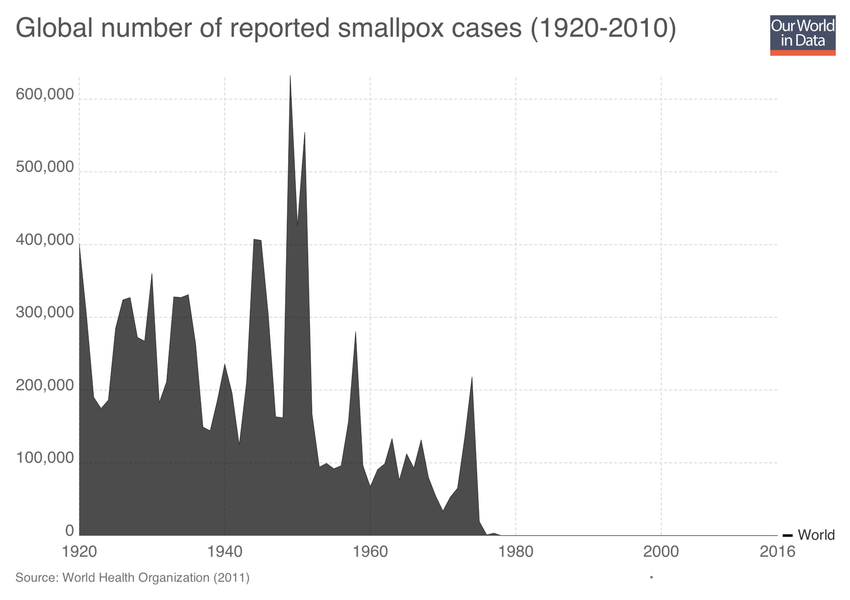
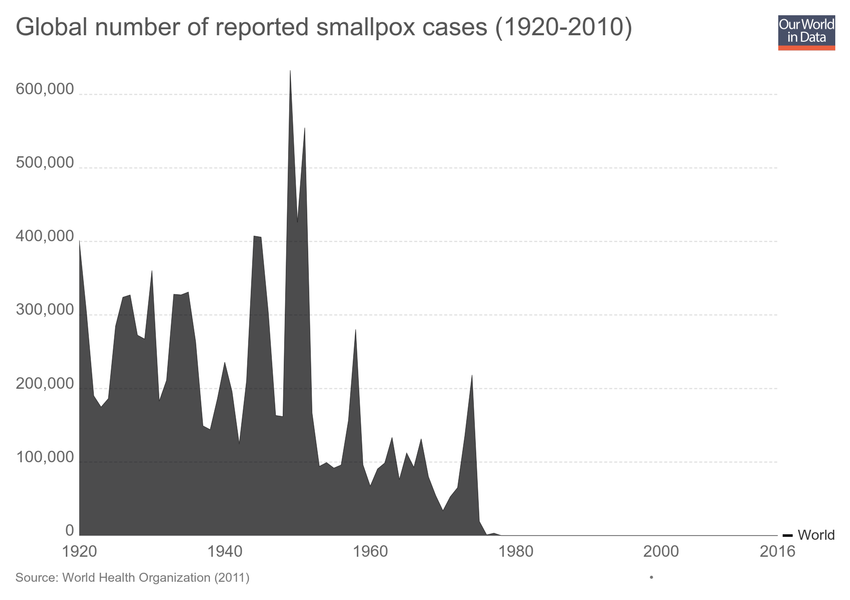
Updating chart global-smallpox-cases

diff --git a/grapher/global-smallpox-cases.html b/grapher/global-smallpox-cases.html
@@ -1,4 +1,4 @@
-<!doctype html><html><head><meta name="viewport" content="width=device-width, initial-scale=1" /><title>Global number of reported smallpox cases (1920-2010) - Our World in Data</title><meta name="description" content="An interactive visualization from Our World in Data." /><link rel="canonical" href="https://ourworldindata.org/grapher/global-smallpox-cases" /><meta property="fb:app_id" content="1149943818390250" /><meta property="og:url" content="https://ourworldindata.org/grapher/global-smallpox-cases" /><meta property="og:title" content="Global number of reported smallpox cases (1920-2010)" /><meta property="og:description" content="An interactive visualization from Our World in Data." /><meta property="og:image" content="https://ourworldindata.org/grapher/exports/global-smallpox-cases.png?v=1" /><meta property="og:image:width" content="850" /><meta property="og:image:height" content="600" /><meta property="og:site_name" content="Our World in Data" /><meta name="twitter:card" content="summary_large_image" /><meta name="twitter:site" content="@OurWorldInData" /><meta name="twitter:creator" content="@OurWorldInData" /><meta name="twitter:title" content="Global number of reported smallpox cases (1920-2010)" /><meta name="twitter:description" content="An interactive visualization from Our World in Data." /><meta name="twitter:image" content="https://ourworldindata.org/grapher/exports/global-smallpox-cases.png?v=1" /><style>
+<!doctype html><html><head><meta name="viewport" content="width=device-width, initial-scale=1" /><title>Global number of reported smallpox cases (1920-2010) - Our World in Data</title><meta name="description" content="An interactive visualization from Our World in Data." /><link rel="canonical" href="https://ourworldindata.org/grapher/global-smallpox-cases" /><meta property="fb:app_id" content="1149943818390250" /><meta property="og:url" content="https://ourworldindata.org/grapher/global-smallpox-cases" /><meta property="og:title" content="Global number of reported smallpox cases (1920-2010)" /><meta property="og:description" content="An interactive visualization from Our World in Data." /><meta property="og:image" content="https://ourworldindata.org/grapher/exports/global-smallpox-cases.png?v=2" /><meta property="og:image:width" content="850" /><meta property="og:image:height" content="600" /><meta property="og:site_name" content="Our World in Data" /><meta name="twitter:card" content="summary_large_image" /><meta name="twitter:site" content="@OurWorldInData" /><meta name="twitter:creator" content="@OurWorldInData" /><meta name="twitter:title" content="Global number of reported smallpox cases (1920-2010)" /><meta name="twitter:description" content="An interactive visualization from Our World in Data." /><meta name="twitter:image" content="https://ourworldindata.org/grapher/exports/global-smallpox-cases.png?v=2" /><style>
         html, body {
             height: 100%;
             margin: 0;
@@ -20,8 +20,8 @@
         }
     </style><noscript><style>
                     figure { display: none !important; }
-                </style></noscript><link rel="stylesheet" href="https://ourworldindata.org/grapher/assets/commons.bundle.019a92548339820130b6.css" /><link rel="preload" href="/grapher/data/variables/65367.json?v=1" as="fetch" crossorigin /></head><body class="singleChart"><figure data-grapher-src="/grapher/global-smallpox-cases"></figure><noscript id="fallback"><img src="/grapher/exports/global-smallpox-cases.svg" /><p>Interactive visualization requires JavaScript</p></noscript><script src="https://cdn.polyfill.io/v2/polyfill.min.js?features=es6,fetch"></script><script src="https://ourworldindata.org/grapher/assets/commons.bundle.019a92548339820130b6.js"></script><script src="https://ourworldindata.org/grapher/assets/charts.bundle.dcf65b68eddaba4c6a58.js"></script><script>
-        var jsonConfig = {"id":1594,"map":{"projection":"World","legendStepSize":20,"colorSchemeLabels":[],"colorSchemeValues":[],"defaultProjection":"World","colorSchemeMinValue":0,"customNumericColors":[],"customCategoryColors":{},"customCategoryLabels":{},"customHiddenCategories":{}},"tab":"chart","slug":"global-smallpox-cases","type":"StackedArea","title":"Global number of reported smallpox cases (1920-2010)","xAxis":{"scaleType":"linear"},"yAxis":{"min":0,"scaleType":"linear"},"version":1,"hasMapTab":false,"originUrl":"","stackMode":"absolute","dimensions":[{"id":11053,"order":0,"chartId":1594,"display":{},"property":"y","targetYear":null,"variableId":65367}],"hasChartTab":true,"isPublished":true,"selectedData":[{"index":0,"entityId":355}],"internalNotes":"","addCountryMode":"add-country","baseColorScheme":"Inferno"};
+                </style></noscript><link rel="stylesheet" href="https://ourworldindata.org/grapher/assets/commons.bundle.019a92548339820130b6.css" /><link rel="preload" href="/grapher/data/variables/65367.json?v=2" as="fetch" crossorigin /></head><body class="singleChart"><figure data-grapher-src="/grapher/global-smallpox-cases"></figure><noscript id="fallback"><img src="/grapher/exports/global-smallpox-cases.svg" /><p>Interactive visualization requires JavaScript</p></noscript><script src="https://cdn.polyfill.io/v2/polyfill.min.js?features=es6,fetch"></script><script src="https://ourworldindata.org/grapher/assets/commons.bundle.019a92548339820130b6.js"></script><script src="https://ourworldindata.org/grapher/assets/charts.bundle.dcf65b68eddaba4c6a58.js"></script><script>
+        var jsonConfig = {"id":1594,"map":{"projection":"World","colorSchemeLabels":[],"colorSchemeValues":[],"colorSchemeMinValue":0,"customNumericColors":[],"customCategoryColors":{},"customCategoryLabels":{},"customHiddenCategories":{}},"tab":"chart","slug":"global-smallpox-cases","type":"StackedArea","title":"Global number of reported smallpox cases (1920-2010)","xAxis":{"scaleType":"linear"},"yAxis":{"min":0,"scaleType":"linear"},"version":2,"hasMapTab":false,"originUrl":"","stackMode":"absolute","dimensions":[{"display":{},"property":"y","variableId":65367}],"hasChartTab":true,"isPublished":true,"selectedData":[{"index":0,"entityId":355}],"internalNotes":"","addCountryMode":"disabled","baseColorScheme":"Inferno","hideRelativeToggle":true,"hideTitleAnnotation":true};
         var figure = document.getElementsByTagName("figure")[0];
         try {
             window.App = {};
